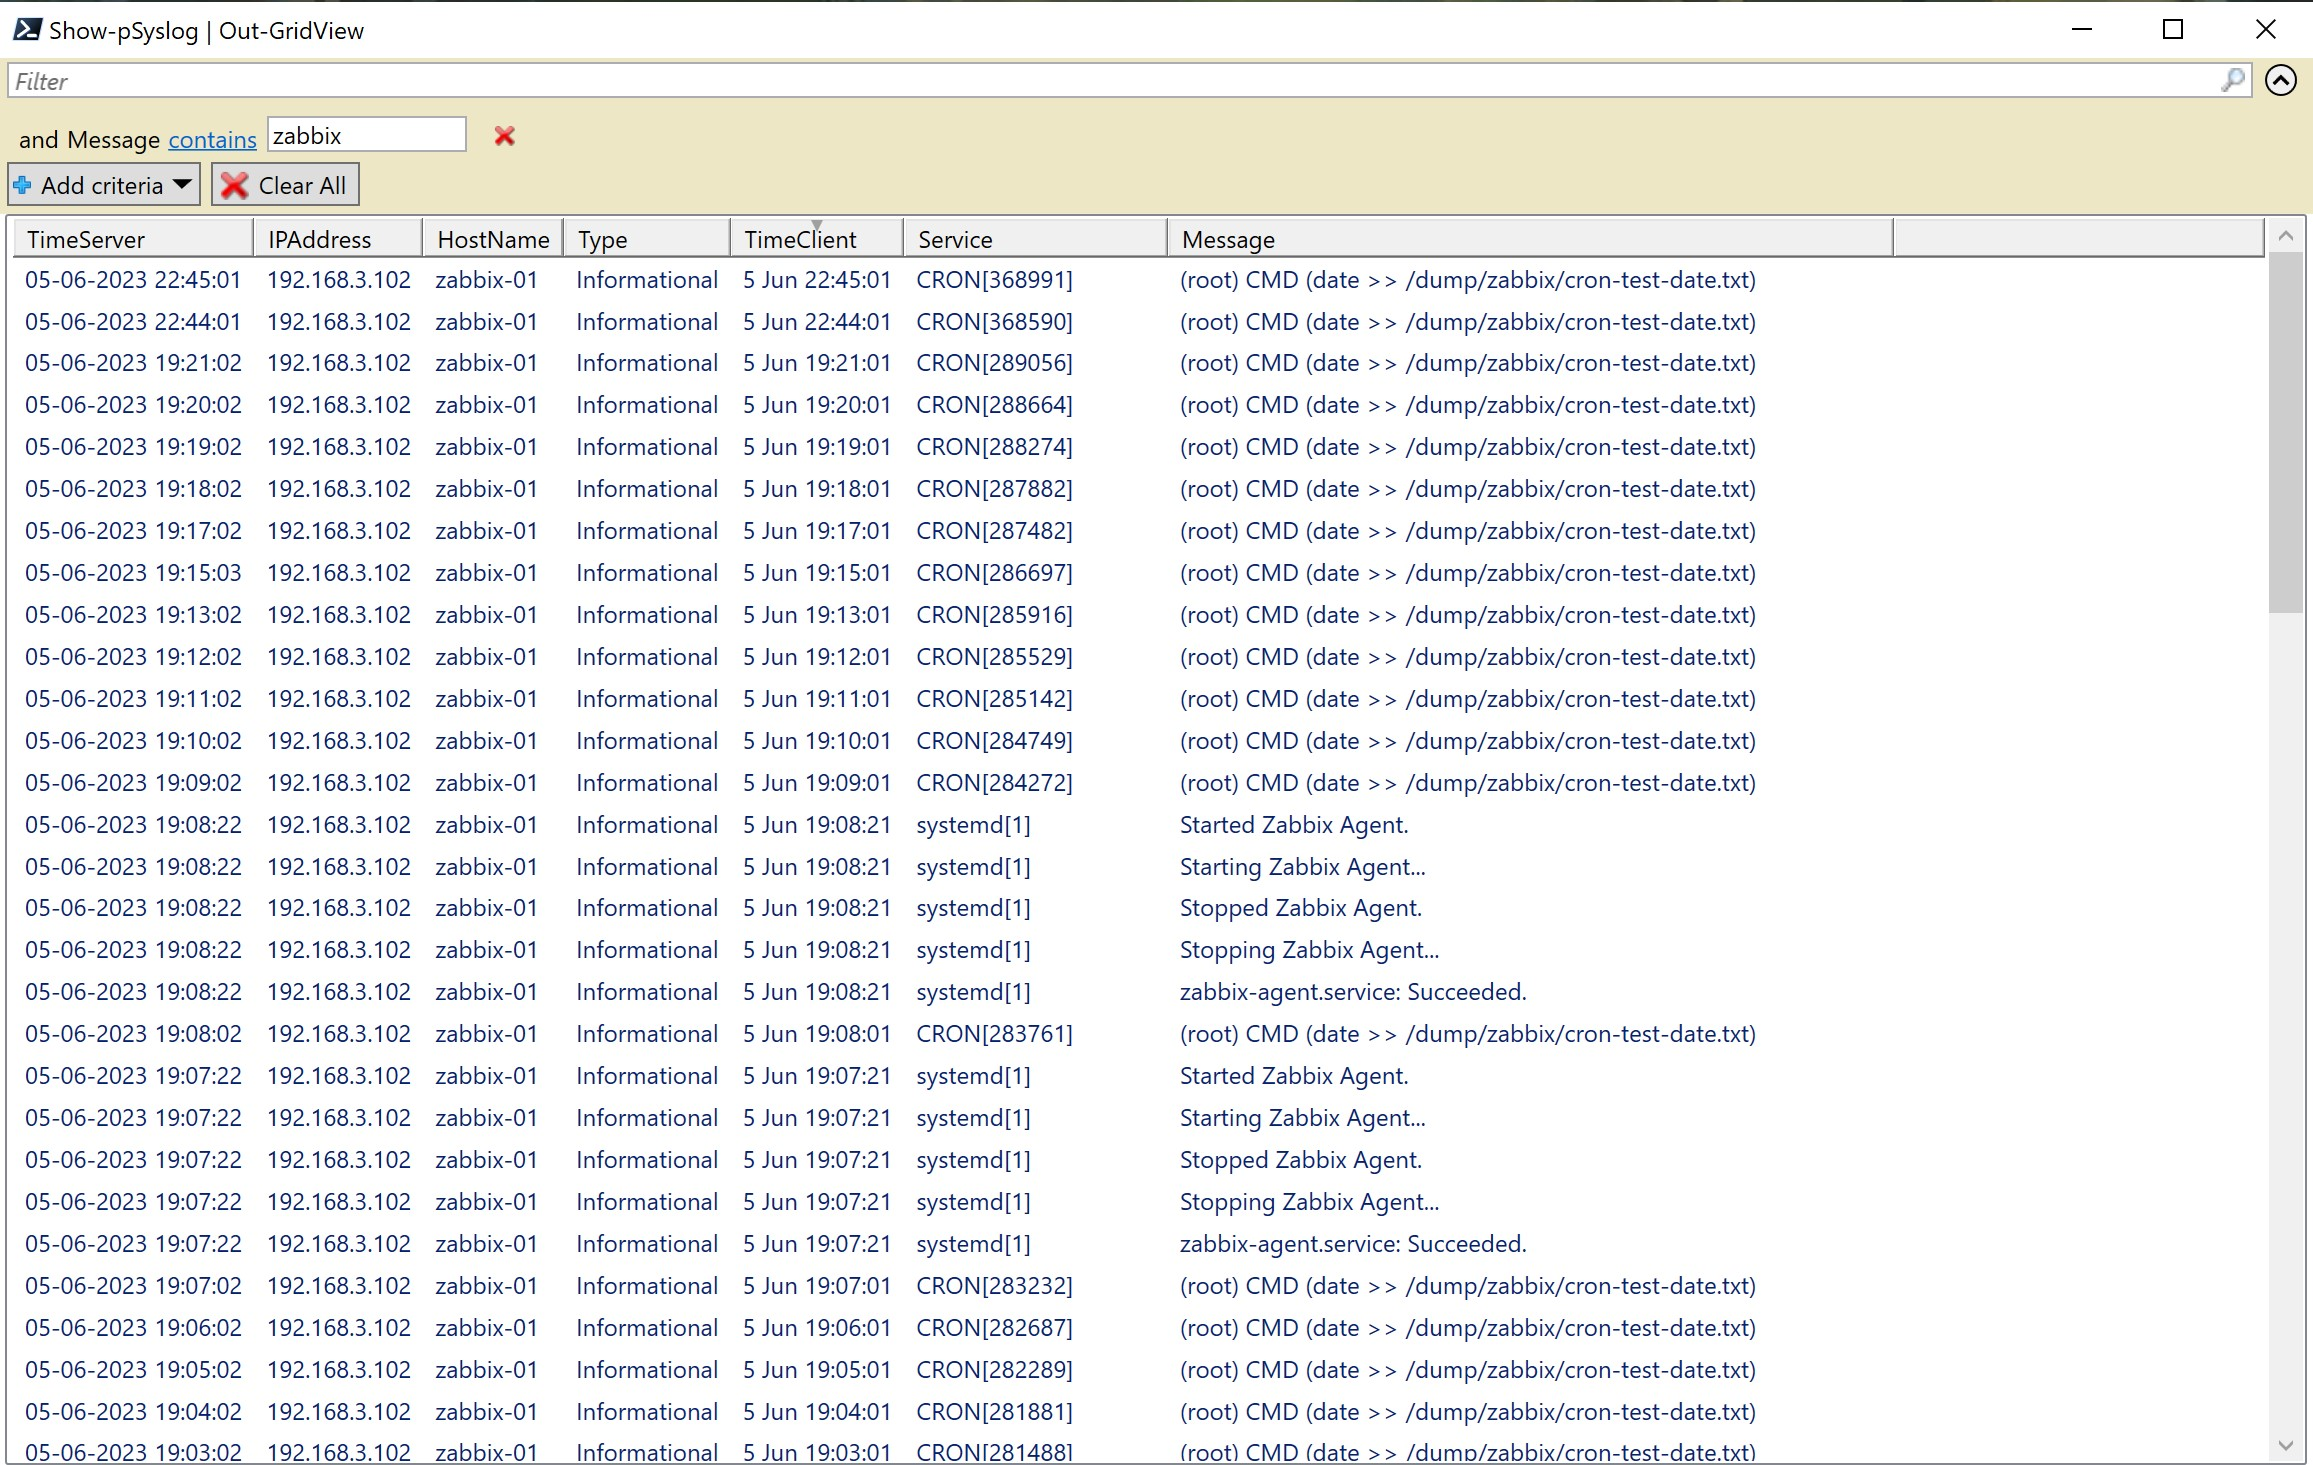
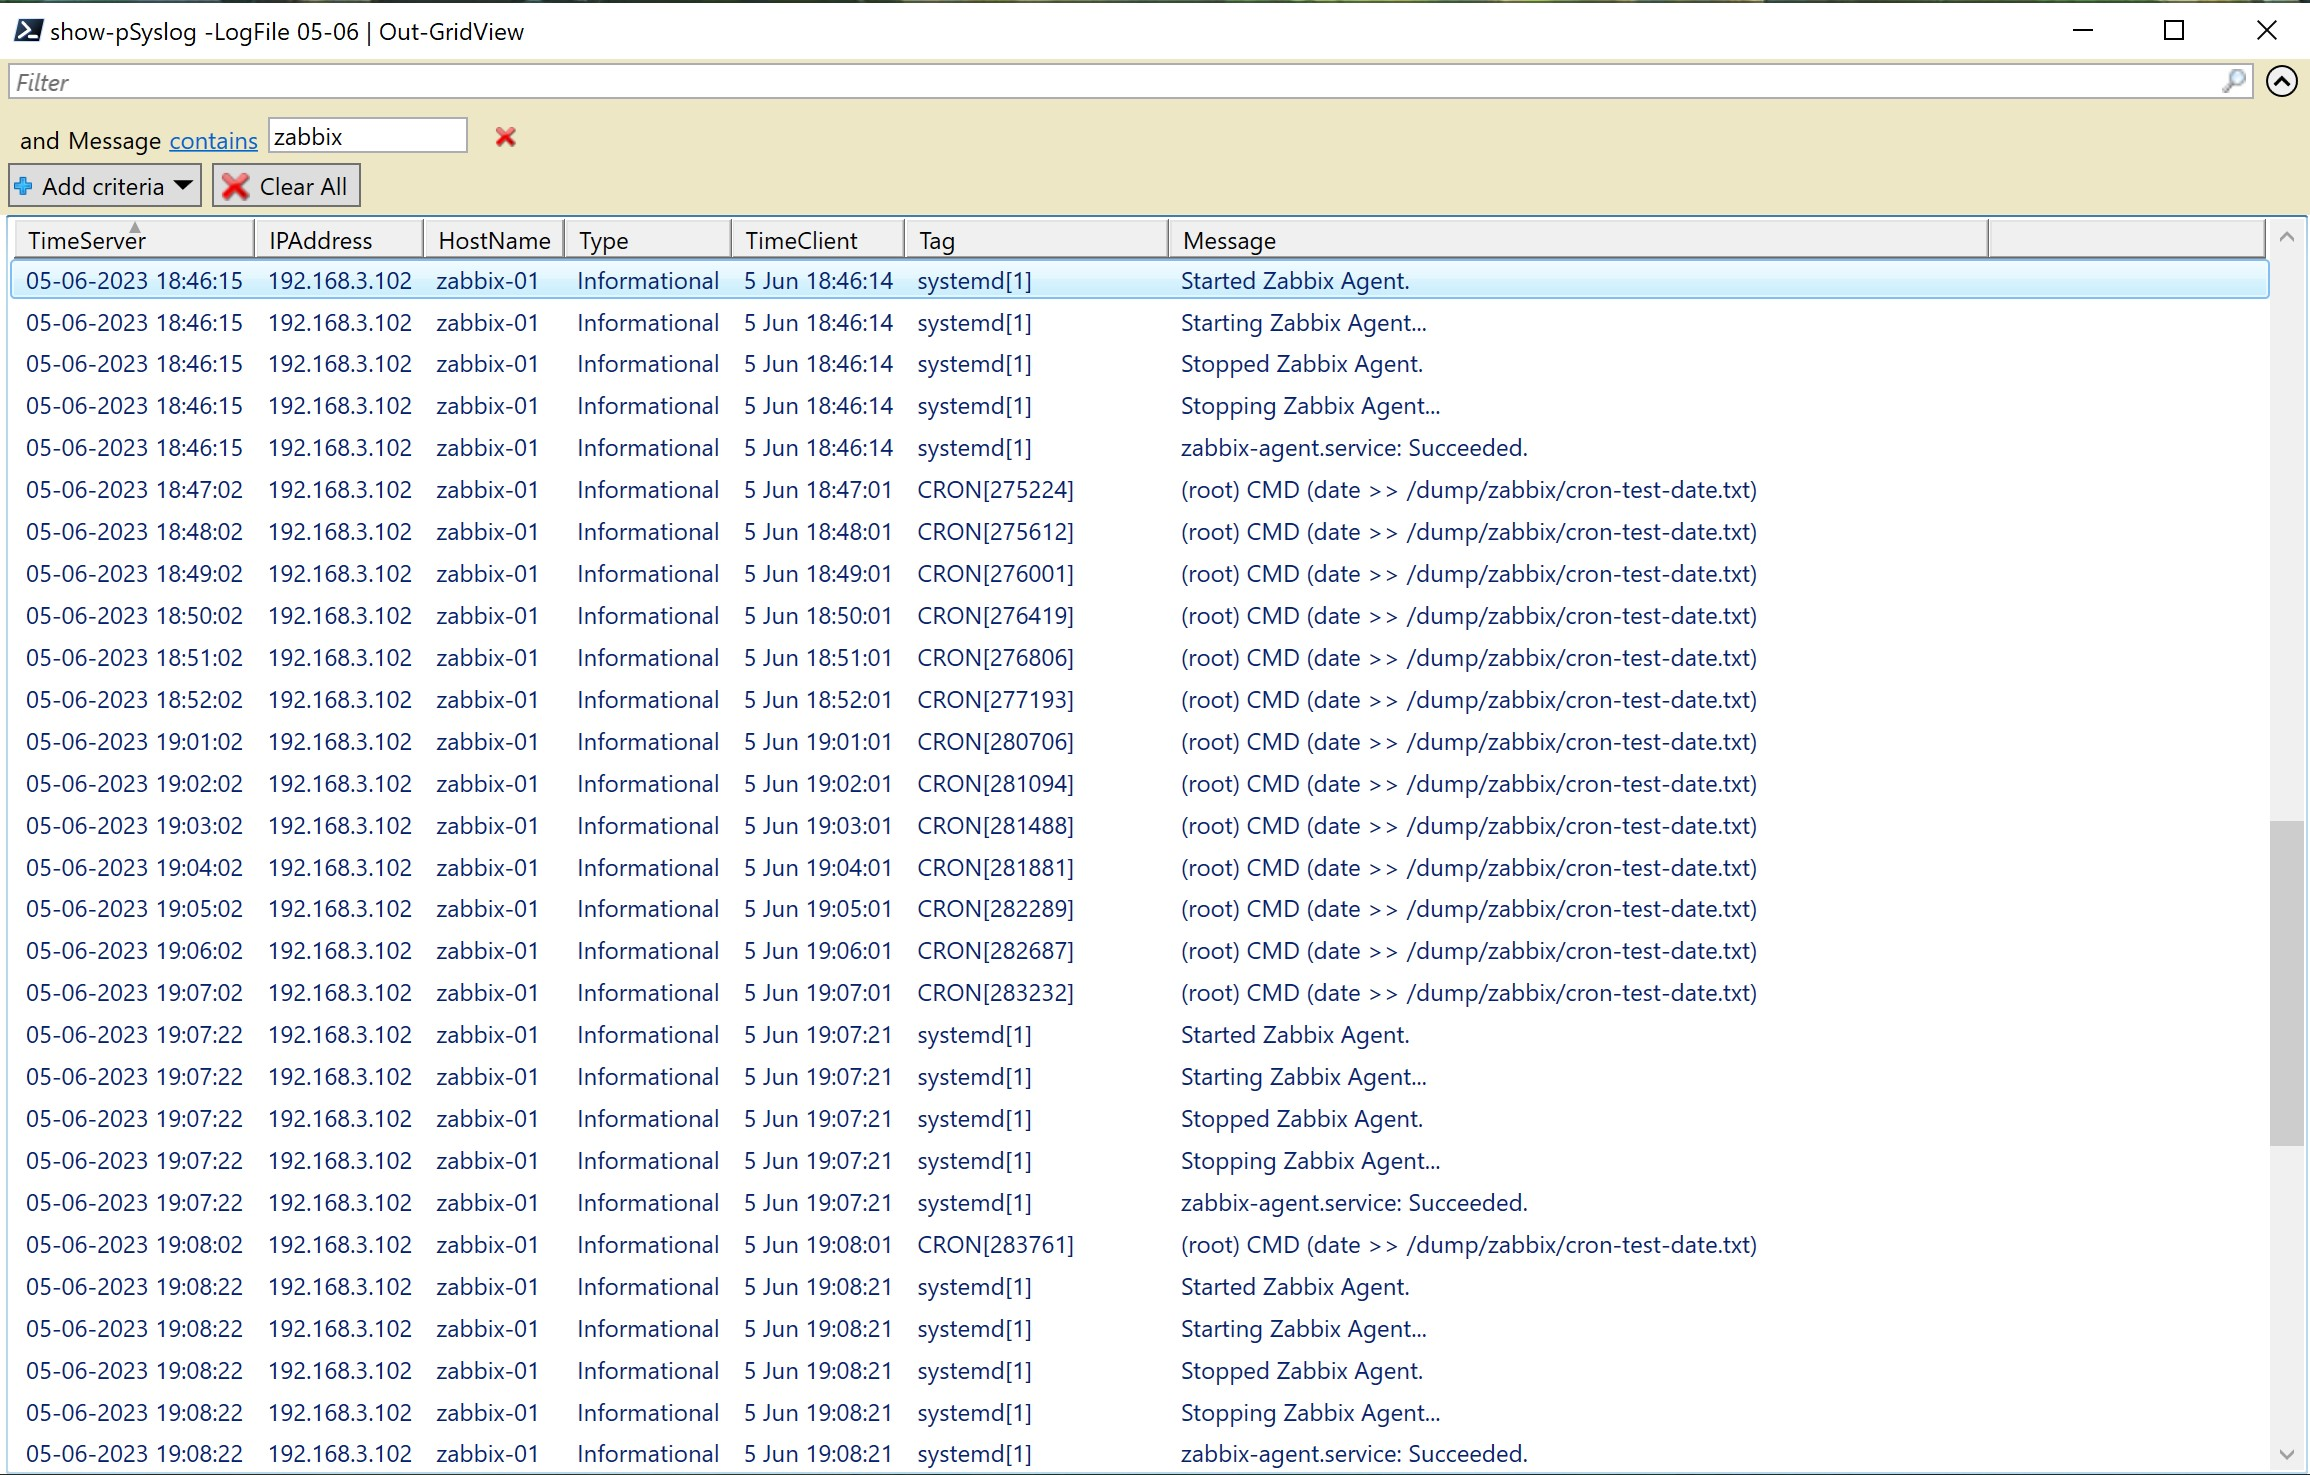
Added version 0.5

Changed region(s): [[0.0, 0.0922, 1.0, 1.0], [0.0, 0.0, 0.2182, 0.0614], [0.9351, 0.0, 0.9974, 0.0614]]

diff --git a/README.md b/README.md
@@ -1,8 +1,6 @@
-# pSyslog
+# pSyslog (development stage 💡)
 
 Syslog Server and Client based on **.NET Class System.Net.Sockets** to Background Job mode.
-
-💡 **Development stage**
 
 ### 📚 Sources
 Documentation used (udp socket): **[metanit.com](https://metanit.com/sharp/net/3.1.php)** \
@@ -35,7 +33,7 @@ Function        Stop-pSyslog             0.5        pSyslog
 ### 📫 pSyslog Server
 ```
 PS C:\Users\Lifailon> Start-pSyslog -Port 514
-PS C:\Users\Lifailon>  Get-pSyslog -Status | Format-List
+PS C:\Users\Lifailon> Get-pSyslog -Status | Format-List
 
 Status    : Running
 StartTime : 06.06.2023 1:09:47
@@ -67,15 +65,17 @@ StopTime  : 06.06.2023 1:13:43
 Send-pSyslog -Content "Test" -Server 192.168.3.99
 Send-pSyslog -Message "Test" -Server 192.168.3.99 -Type Informational -PortServer 514 -PortClient 55514
 ```
-**Or use pipeline:**
+
+![Image alt](https://github.com/Lifailon/pSyslog/blob/rsa/Screen/Send-pSyslog.jpg)
+
+### Use pipeline and sending to rSyslog server:
 ```
 (Get-Service -Name WinRM).Status | Send-pSyslog -Server 192.168.3.99 -Tag Service[WinRM]
 ```
 
+![Image alt](https://github.com/Lifailon/pSyslog/blob/rsa/Screen/Send-pSyslog-Rsyslog.jpg)
+
 ### 📊 Out logfile to Object for collecting metrics
-
-![Image alt](https://github.com/Lifailon/pSyslog/blob/rsa/Screen/Show-pSyslog-Metrics.jpg)
-
 ```
 PS C:\Users\Lifailon> Show-pSyslog -Type Warning -Count
 2917
@@ -91,9 +91,15 @@ PS C:\Users\Lifailon> Show-pSyslog -Type Informational -Count
 15491
 ```
 
+![Image alt](https://github.com/Lifailon/pSyslog/blob/rsa/Screen/Show-pSyslog-Metrics.jpg)
+
 ### 🔍 Search
 
 `Show-pSyslog | Out-GridView`
+
+**Or view old journal by wildcard file name:**
+
+`Show-pSyslog -LogFile 05-06 | Out-GridView`
 
 ![Image alt](https://github.com/Lifailon/pSyslog/blob/rsa/Screen/Show-pSyslog-Out-GridView.jpg)
 
@@ -106,10 +112,3 @@ Example logfile system reboot: **[06-06-2023_reboot.log](https://github.com/Lifa
 ### 💬 Example output local syslog (using tail):
 
 ![Image alt](https://github.com/Lifailon/pSyslog/blob/rsa/Screen/Syslog-Local-Tail.jpg)
-
-### Example use cmdlet powershell Send-pSyslog: 
-![Image alt](https://github.com/Lifailon/pSyslog/blob/rsa/Screen/Send-pSyslog.jpg)
-
-### Sending to rSyslog
-
-![Image alt](https://github.com/Lifailon/pSyslog/blob/rsa/Screen/Send-pSyslog-Rsyslog.jpg)
